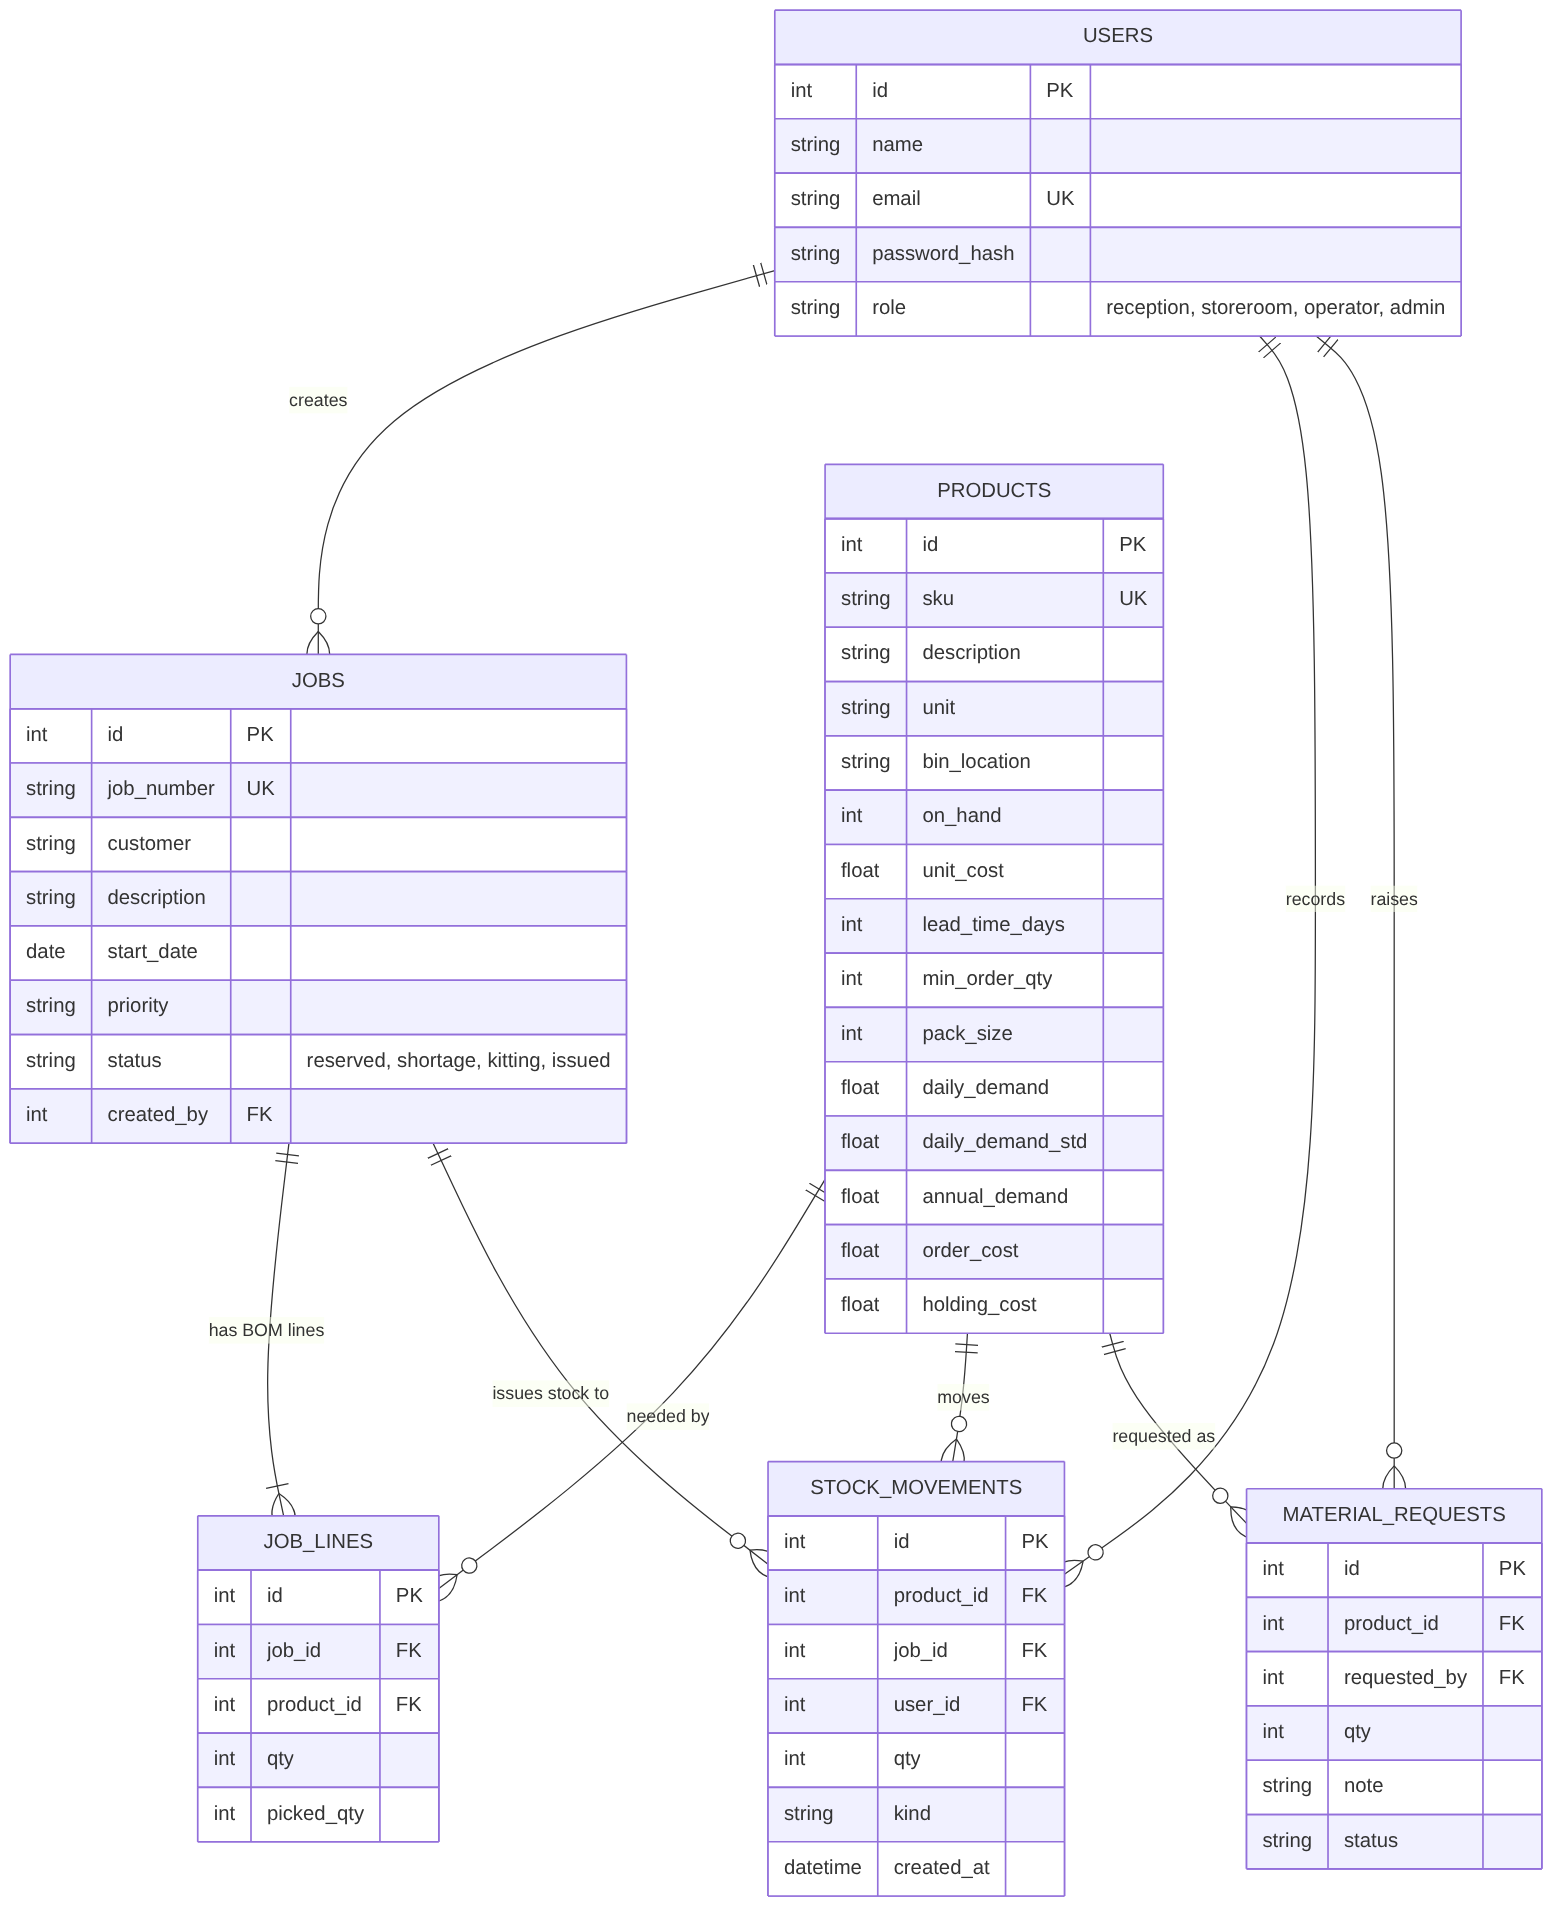
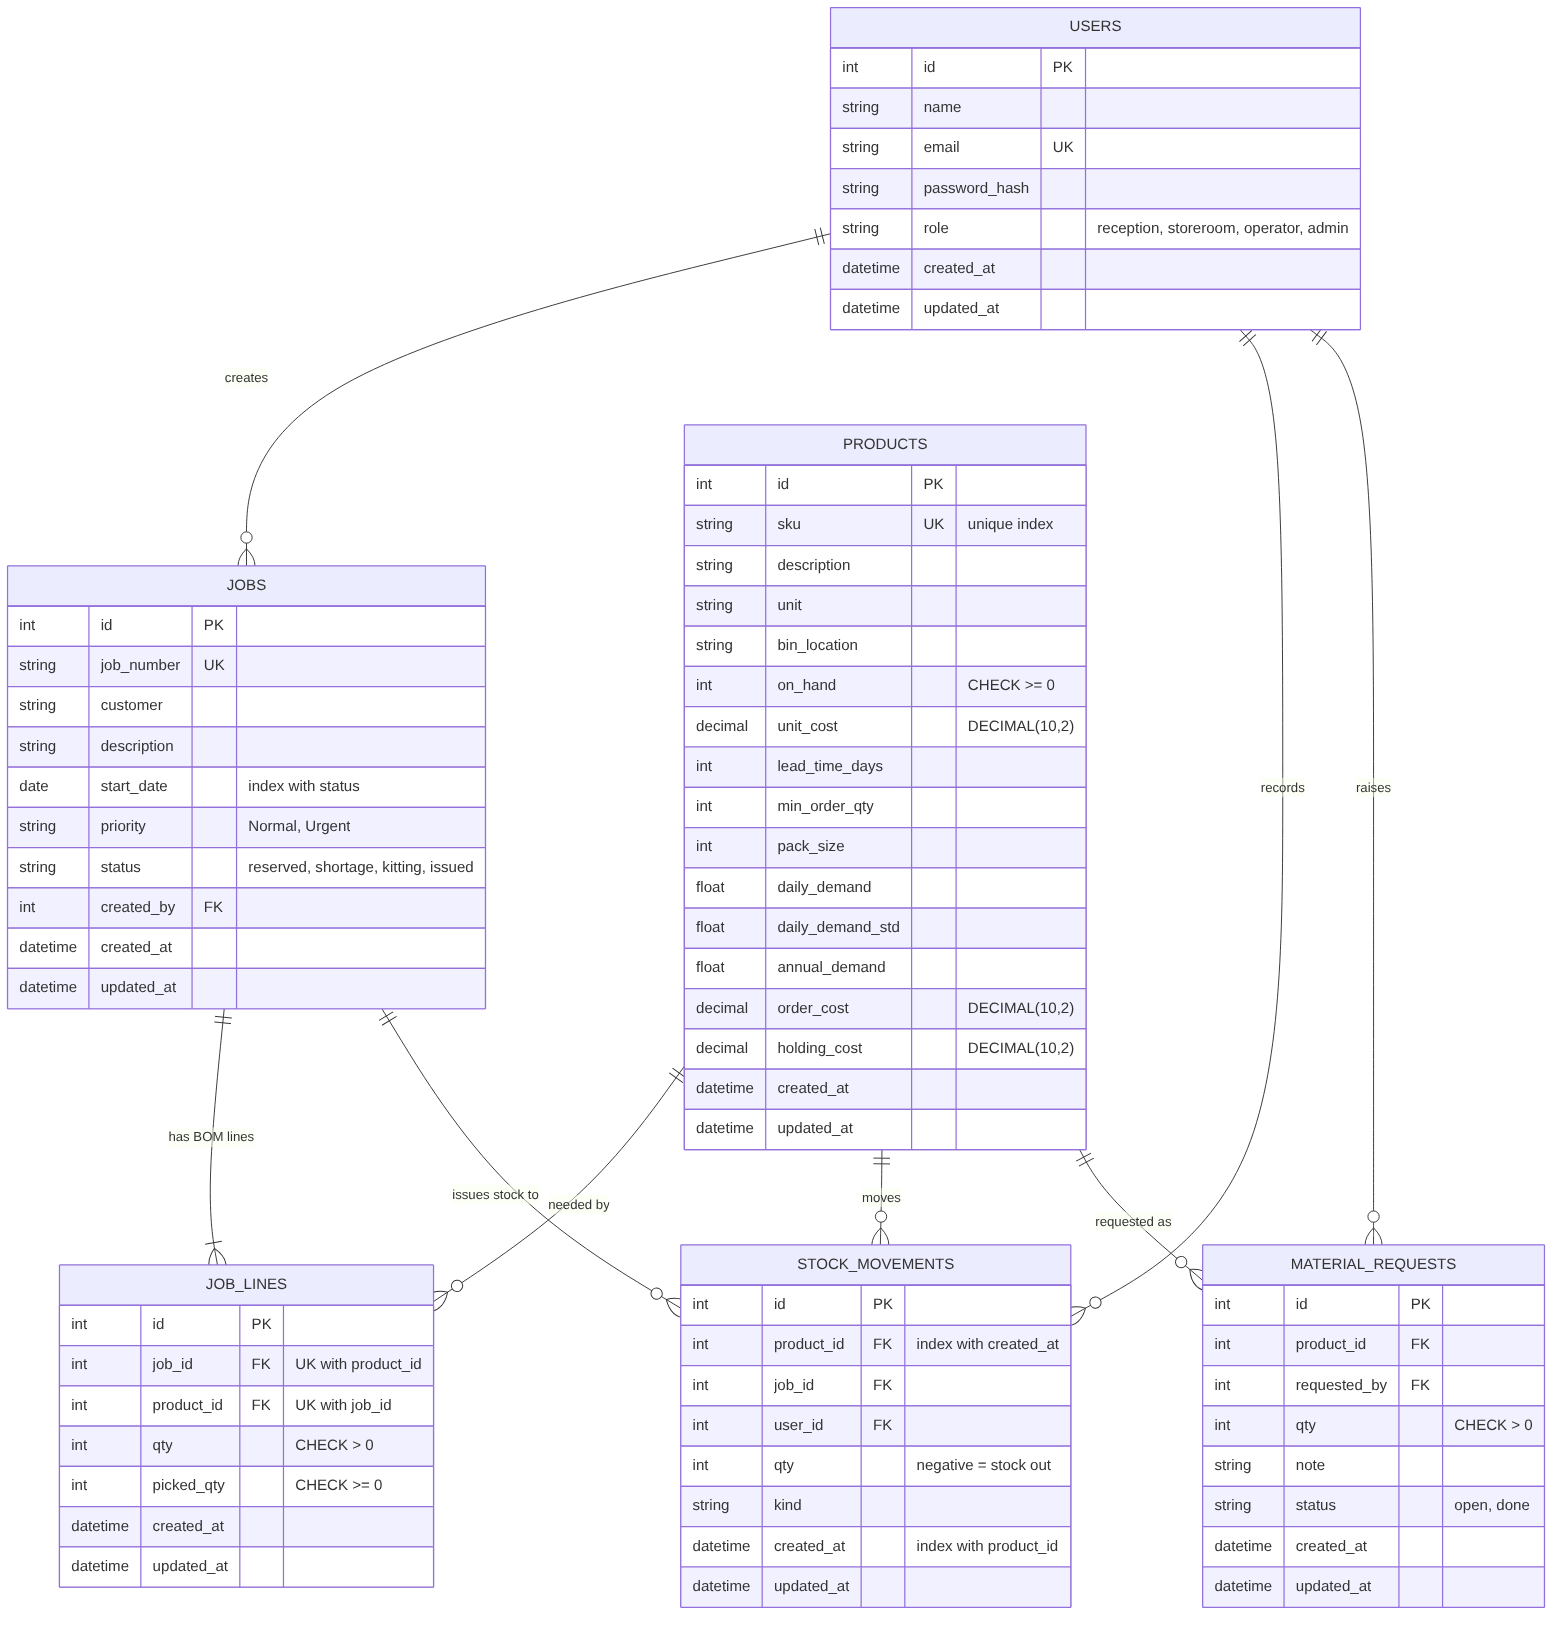
Tidy schema: DECIMAL money columns, extra CHECKs, env demo password, updated ER diagram

diff --git a/migrations/versions/76bba2f43d9d_create_initial_tables.py b/migrations/versions/76bba2f43d9d_create_initial_tables.py
@@ -25,15 +25,15 @@ def upgrade():
     sa.Column('unit', sa.String(length=10), nullable=False),
     sa.Column('bin_location', sa.String(length=20), nullable=False),
     sa.Column('on_hand', sa.Integer(), nullable=False),
-    sa.Column('unit_cost', sa.Float(), nullable=False),
+    sa.Column('unit_cost', sa.Numeric(precision=10, scale=2, asdecimal=False), nullable=False),
     sa.Column('lead_time_days', sa.Integer(), nullable=False),
     sa.Column('min_order_qty', sa.Integer(), nullable=False),
     sa.Column('pack_size', sa.Integer(), nullable=False),
     sa.Column('daily_demand', sa.Float(), nullable=False),
     sa.Column('daily_demand_std', sa.Float(), nullable=False),
     sa.Column('annual_demand', sa.Float(), nullable=False),
-    sa.Column('order_cost', sa.Float(), nullable=False),
-    sa.Column('holding_cost', sa.Float(), nullable=False),
+    sa.Column('order_cost', sa.Numeric(precision=10, scale=2, asdecimal=False), nullable=False),
+    sa.Column('holding_cost', sa.Numeric(precision=10, scale=2, asdecimal=False), nullable=False),
     sa.Column('created_at', sa.DateTime(), nullable=False),
     sa.Column('updated_at', sa.DateTime(), nullable=False),
     sa.CheckConstraint('on_hand >= 0', name='ck_products_on_hand'),
@@ -80,6 +80,7 @@ def upgrade():
     sa.Column('requested_by', sa.Integer(), nullable=True),
     sa.Column('created_at', sa.DateTime(), nullable=False),
     sa.Column('updated_at', sa.DateTime(), nullable=False),
+    sa.CheckConstraint('qty > 0', name='ck_material_requests_qty'),
     sa.ForeignKeyConstraint(['product_id'], ['products.id'], ),
     sa.ForeignKeyConstraint(['requested_by'], ['users.id'], ),
     sa.PrimaryKeyConstraint('id')
@@ -93,6 +94,7 @@ def upgrade():
     sa.Column('created_at', sa.DateTime(), nullable=False),
     sa.Column('updated_at', sa.DateTime(), nullable=False),
     sa.CheckConstraint('qty > 0', name='ck_job_lines_qty'),
+    sa.CheckConstraint('picked_qty >= 0', name='ck_job_lines_picked'),
     sa.ForeignKeyConstraint(['job_id'], ['jobs.id'], ),
     sa.ForeignKeyConstraint(['product_id'], ['products.id'], ),
     sa.PrimaryKeyConstraint('id'),

diff --git a/app/models/product.py b/app/models/product.py
@@ -11,7 +11,7 @@ class Product(AuditMixin, db.Model):
     unit = db.Column(db.String(10), nullable=False, default="ea")
     bin_location = db.Column(db.String(20), nullable=False)
     on_hand = db.Column(db.Integer, nullable=False, default=0)
-    unit_cost = db.Column(db.Float, nullable=False, default=0)
+    unit_cost = db.Column(db.Numeric(10, 2, asdecimal=False), nullable=False, default=0)
     lead_time_days = db.Column(db.Integer, nullable=False, default=7)
     min_order_qty = db.Column(db.Integer, nullable=False, default=1)
     pack_size = db.Column(db.Integer, nullable=False, default=1)
@@ -20,8 +20,8 @@ class Product(AuditMixin, db.Model):
     daily_demand = db.Column(db.Float, nullable=False, default=0)
     daily_demand_std = db.Column(db.Float, nullable=False, default=0)
     annual_demand = db.Column(db.Float, nullable=False, default=0)
-    order_cost = db.Column(db.Float, nullable=False, default=0)
-    holding_cost = db.Column(db.Float, nullable=False, default=0)
+    order_cost = db.Column(db.Numeric(10, 2, asdecimal=False), nullable=False, default=0)
+    holding_cost = db.Column(db.Numeric(10, 2, asdecimal=False), nullable=False, default=0)
 
     __table_args__ = (
         db.CheckConstraint("on_hand >= 0", name="ck_products_on_hand"),

diff --git a/seed.py b/seed.py
@@ -3,6 +3,7 @@
 All names and numbers are made up for the demo. Running it again wipes the
 old demo data first, so it is safe to repeat.
 """
+import os
 from datetime import date, timedelta
 
 from app import create_app
@@ -53,7 +54,8 @@ USERS = [
     ("Olivia Operator", "operator@stockflow.test", "operator"),
     ("Admin User", "admin@stockflow.test", "admin"),
 ]
-DEMO_PASSWORD = "Password123"   # demo logins only
+# demo logins only; set DEMO_PASSWORD in .env to use a different one
+DEMO_PASSWORD = os.environ.get("DEMO_PASSWORD", "Password123")
 
 
 def wipe_old_data():

diff --git a/app/models/job.py b/app/models/job.py
@@ -43,4 +43,5 @@ class JobLine(AuditMixin, db.Model):
     __table_args__ = (
         db.UniqueConstraint("job_id", "product_id", name="uq_job_product"),
         db.CheckConstraint("qty > 0", name="ck_job_lines_qty"),
+        db.CheckConstraint("picked_qty >= 0", name="ck_job_lines_picked"),
     )

diff --git a/app/models/movement.py b/app/models/movement.py
@@ -32,3 +32,6 @@ class MaterialRequest(AuditMixin, db.Model):
     requested_by = db.Column(db.Integer, db.ForeignKey("users.id"))
 
     product = db.relationship("Product")
+    __table_args__ = (
+        db.CheckConstraint("qty > 0", name="ck_material_requests_qty"),
+    )
